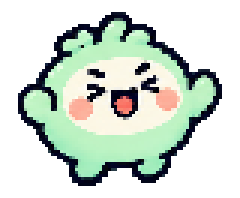
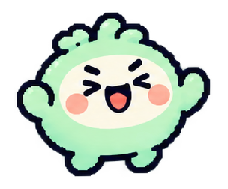
Revert "Merge pull request #22 from kimmoksan/feature/kkang-pixel"
This reverts commit 5851b407cae8992889df09044da6f5852c3a8bba, reversing
changes made to 8709d5257194cd7ba485035e9a9bdd6d15358002.

diff --git a/frontend/src/index.css b/frontend/src/index.css
@@ -392,7 +392,6 @@ button:disabled { opacity: 0.6; cursor: wait; }
   display: block;
   height: auto;
   object-fit: contain;
-  image-rendering: pixelated;
   animation: kkang-pop 0.35s ease-out both, kkang-bob 2.6s ease-in-out infinite;
 }
 .kkang-sm { width: 72px; }

diff --git a/docs/ASSETS.md b/docs/ASSETS.md
@@ -110,7 +110,7 @@
 
 ## 깡이 동작 18종 (v04, 2026-10-30)
 
-`frontend/public/assets/kkang/ui_{pro|con|guide}_{포즈}.png` — 원본 384×384를 18장 공통 범위(40,66)-(344,318)로 잘라 80px 도트 격자로 줄이고(NEAREST, 색 섞지 않음) 3배 정수 확대한 240×198로 저장, CSS image-rendering: pixelated. 정지 포즈를 바꿔 끼우고 CSS로 등장(pop)·들썩임(bob)을 준다. 동작 줄이기 설정이면 멈춤.
+`frontend/public/assets/kkang/ui_{pro|con|guide}_{포즈}.png` — 원본 384×384를 18장 공통 범위(40,66)-(344,318)로 잘라 228×189로 축소(포즈가 바뀌어도 몸 위치가 튀지 않게). 정지 포즈를 바꿔 끼우고 CSS로 등장(pop)·들썩임(bob)을 준다. 동작 줄이기 설정이면 멈춤.
 
 | 화면 | 연결 |
 |---|---|
